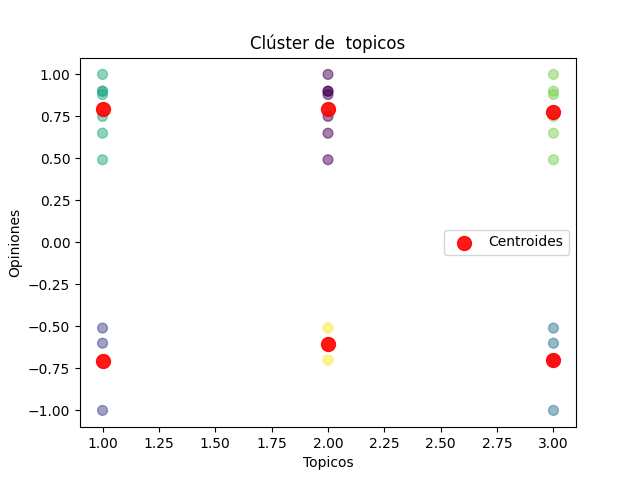
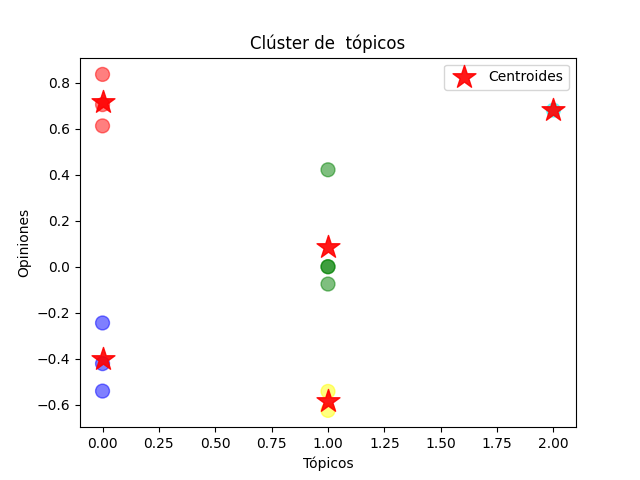
Se realizan modificaciones

diff --git a/datapump.py b/datapump.py
@@ -1,10 +1,10 @@
 from comentarioDB import ComentarioDB
-from sentimentanalyzer import negative_or_positive
+import sentimentanalyzer 
 import text_analyzer
 import json
-candidate_labels = ["salary", "work-environment", "bosses","facilities"]
 
-def process():
+
+def process(canditate_labels):
         db=ComentarioDB.getDataBase()      
         corpus=None 
         topiclist=[]
@@ -23,20 +23,22 @@ def process():
                        results_cons=text_analyzer.analyze(corpus,candidate_labels)
                        print(results_cons)
                        indice=candidate_labels.index(results_cons['topic'])
+                       print(indice,results_cons['topic'])
                        topiclist.append(indice)
                        opinionlist.append(results_cons['feeling'])
-                       if rowindex==10: break
+                       if rowindex==70: break
                        rowindex+=1
         dict_object={"topic":topiclist,"opinion":opinionlist}      
         json_string=json.dumps(dict_object)             
         print(json_string)   
-        jsonFile = open("./clusterprocessor/input/bajada1.json", "w")  
+        jsonFile = open("./clusterprocessor/input/bajada.json", "w")  
         jsonFile.write(json_string)
         jsonFile.close()        
                          
 
 
 if __name__=='__main__':
-         process()
+         candidate_labels = ["salary", "work-environment", "bosses","facilities"]
+         process(candidate_labels)
  
  

diff --git a/text_analyzer.py b/text_analyzer.py
@@ -12,16 +12,13 @@ def analyze(phrase, candidates):
             feelings_results=sentimentanalyzer.analyze(sentence)
             topic_result=topicanalizer.analyze(sentence,candidates)      
             detected_topic=topic_result["labels"][0]
-            compound=sentimentanalyzer.get_compound(feelings_results)
-            #if sentimentanalyzer.negative_or_positive(feelings_results):
-            #print(sentence,detected_feeling,detected_topic, feelings_results)   
+            compound=sentimentanalyzer.get_compound(feelings_results)            
             results["topic"]=detected_topic
             results["feeling"] = compound
             results["phrase"]=sentence
       return results
 if __name__=='__main__':
-       #phrase = "The managers are wonderful. The chances are good"
-       phrase="There's no chance of progress" # pos work-environment
+       phrase = "The managers are wonderful"       
        candidate_labels = ["salary", "work-environment", "bosses","progress"]
-       analyze(phrase,candidate_labels)
-
+       results=analyze(phrase,candidate_labels)
+       print(results)     

diff --git a/clusterprocessor/cluster.py b/clusterprocessor/cluster.py
@@ -12,7 +12,7 @@ output='./clusterprocessor/output/cluster.png'
      
 
 
-def calculate_results(topiclist,opinions):
+def groupbytopicsandopinion(topiclist,opinions):
       results={}
       for topic, opinion in zip(topiclist,opinions):
             if not topic in results:
@@ -41,7 +41,7 @@ def calculate_summarized(results):
 
 #Devolvemos la cantidad de clusters
 def calculate_k(topiclist, opinions):
-      results=calculate_results(topiclist,opinions)
+      results=groupbytopicsandopinion(topiclist,opinions)
       summarized=calculate_summarized(results)      
       k=0
       for topic in summarized:
@@ -65,8 +65,8 @@ def make_cluster(Data):
 
        plt.scatter(df['topic'], df['opinion'], marker="o",s=100, alpha=0.5,c=asignar) 
        plt.scatter(centroids[:, 0], centroids[:, 1],marker = "*", alpha = 0.9,s=300,c='red',label='Centroides')
-       plt.title('Clúster de  topicos')
-       plt.xlabel('Topicos')
+       plt.title('Clúster de  tópicos')
+       plt.xlabel('Tópicos')
        plt.ylabel('Opiniones')
        plt.legend()
        #plt.show()

diff --git a/topicanalizer.py b/topicanalizer.py
@@ -7,7 +7,7 @@ def analyze(sequence,candidate_labels):
    return result
 
 if __name__=='__main__':
-   sequence = "The projects are very interesting"
+   sequence = "pay is way under market"
    candidate_labels = ["salary", "work-environment", "bosses"]
    result=analyze(sequence,candidate_labels)
    print(result)

diff --git a/sentimentanalyzer.py b/sentimentanalyzer.py
@@ -26,8 +26,7 @@ def get_feeling(scores):
                  feeling=category
      return feeling     
 
-def negative_or_positive(scores):
-    return scores['compound']>=0.05 and scores['compound']<=-0.05
+
 
 def get_compound(scores):
       return scores["compound"]
